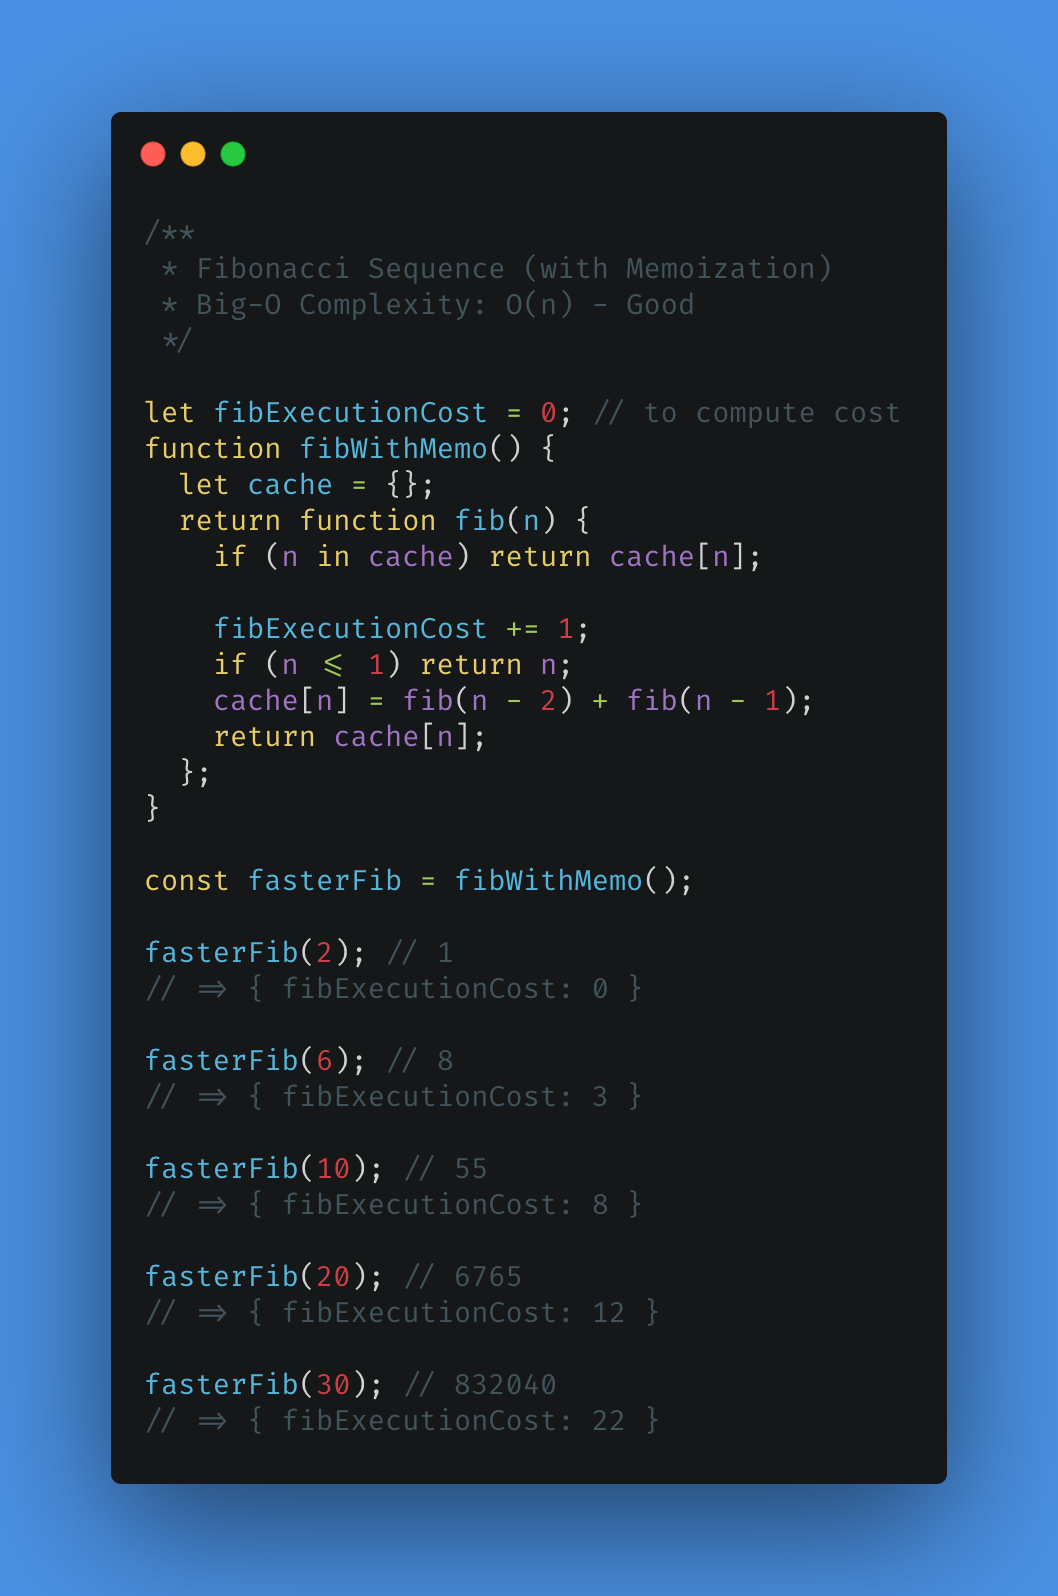
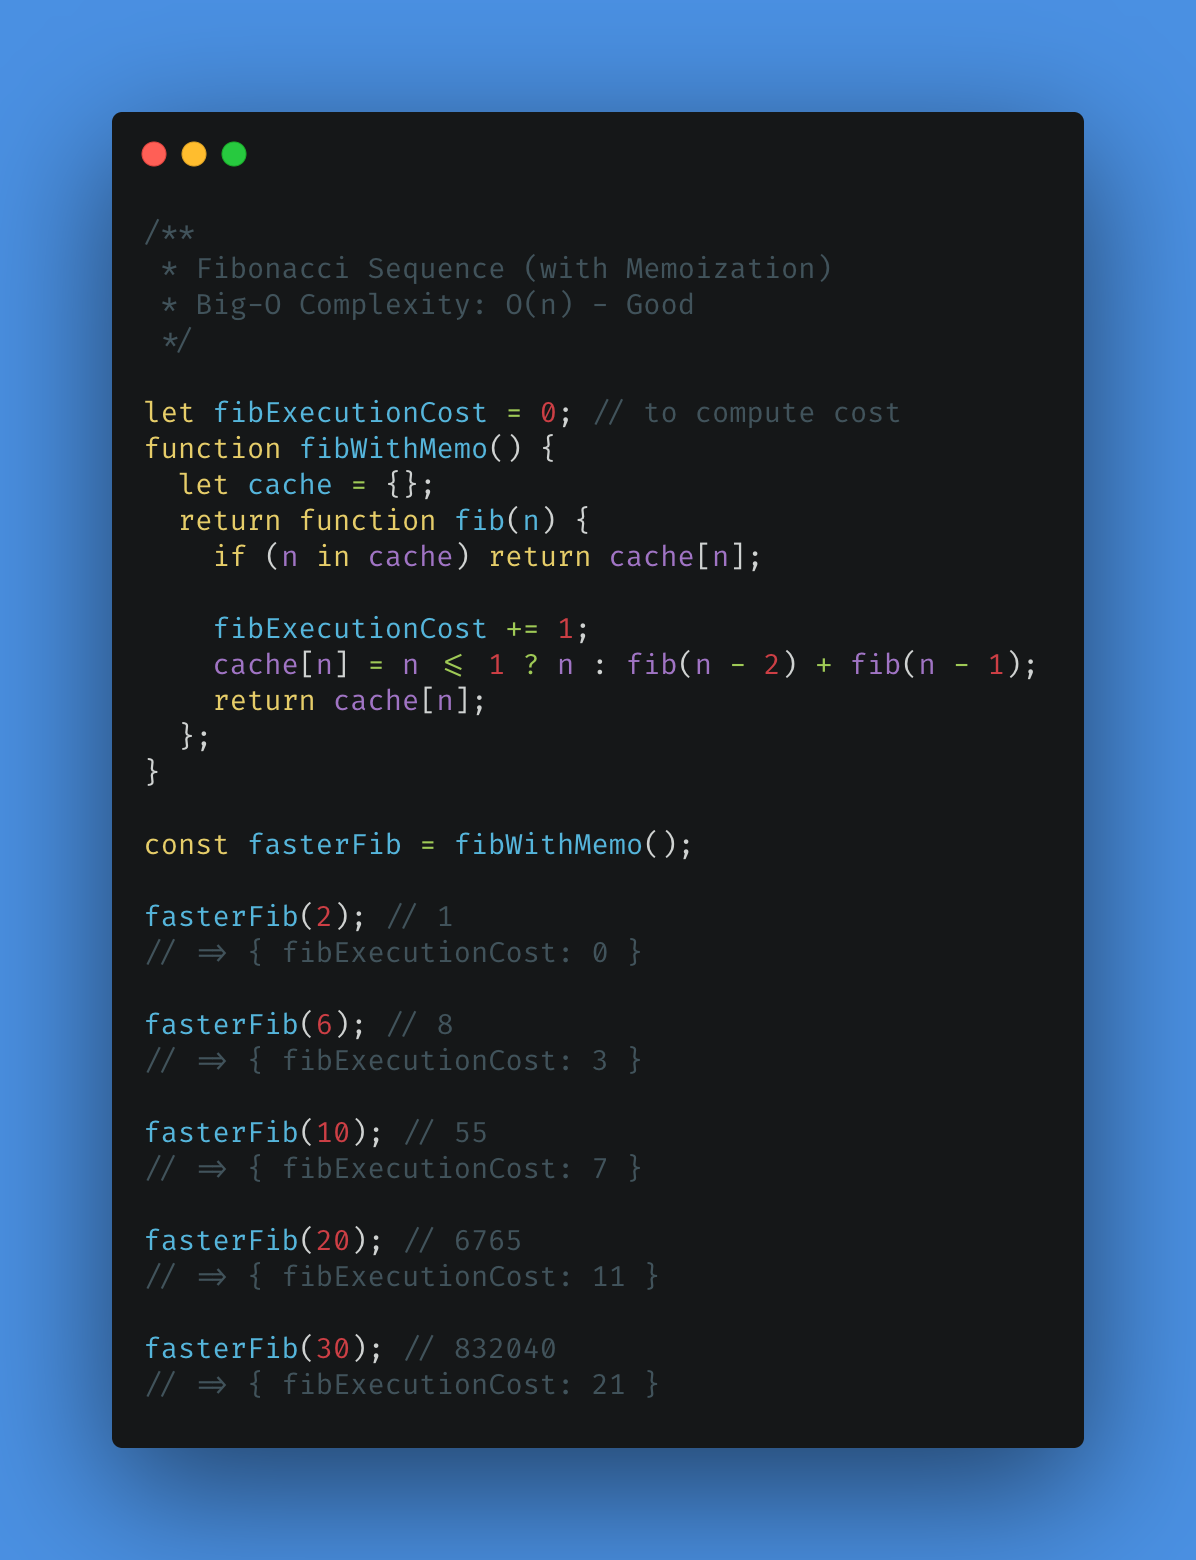
Made a "Slight Improvement in caching logic"
The "Big-O Complexity" remain O(n) only but a "slight" cost improvement

diff --git a/003-algorithms/004-dynamic-programming/004.js b/003-algorithms/004-dynamic-programming/004.js
@@ -11,8 +11,7 @@
       if (n in cache) return cache[n];
 
       fibExecutionCost += 1;
-      if (n <= 1) return n;
-      cache[n] = fib(n - 2) + fib(n - 1);
+      cache[n] = n <= 1 ? n : fib(n - 2) + fib(n - 1);
       return cache[n];
     };
   }
@@ -32,15 +31,15 @@
   console.log("fasterFib(10):", {
     fibExecutionCost,
     result: fasterFib(10),
-  }); // fasterFib(10): { fibExecutionCost: 8, result: 55 }
+  }); // fasterFib(10): { fibExecutionCost: 7, result: 55 }
 
   console.log("fasterFib(20):", {
     fibExecutionCost,
     result: fasterFib(20),
-  }); // fasterFib(20): { fibExecutionCost: 12, result: 6765 }
+  }); // fasterFib(20): { fibExecutionCost: 11, result: 6765 }
 
   console.log("fasterFib(30):", {
     fibExecutionCost,
     result: fasterFib(30),
-  }); // fasterFib(30): { fibExecutionCost: 22, result: 832040 }
+  }); // fasterFib(30): { fibExecutionCost: 21, result: 832040 }
 }

diff --git a/003-algorithms/004-dynamic-programming/carbon/004.js b/003-algorithms/004-dynamic-programming/carbon/004.js
@@ -10,8 +10,7 @@ function fibWithMemo() {
     if (n in cache) return cache[n];
 
     fibExecutionCost += 1;
-    if (n <= 1) return n;
-    cache[n] = fib(n - 2) + fib(n - 1);
+    cache[n] = n <= 1 ? n : fib(n - 2) + fib(n - 1);
     return cache[n];
   };
 }
@@ -25,10 +24,10 @@ fasterFib(6); // 8
 // => { fibExecutionCost: 3 }
 
 fasterFib(10); // 55
-// => { fibExecutionCost: 8 }
+// => { fibExecutionCost: 7 }
 
 fasterFib(20); // 6765
-// => { fibExecutionCost: 12 }
+// => { fibExecutionCost: 11 }
 
 fasterFib(30); // 832040
-// => { fibExecutionCost: 22 }
+// => { fibExecutionCost: 21 }
